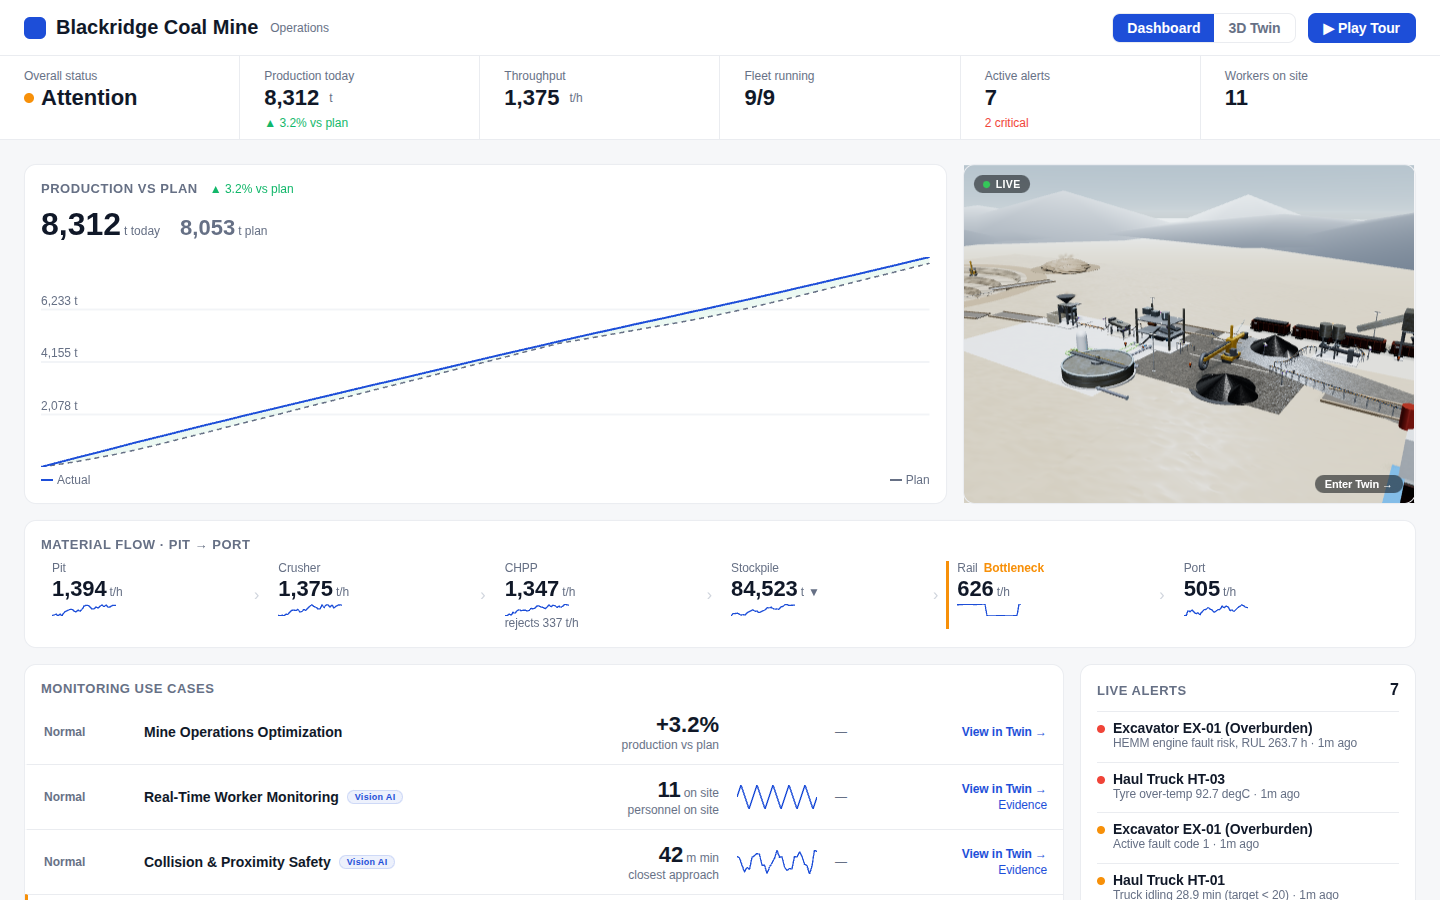
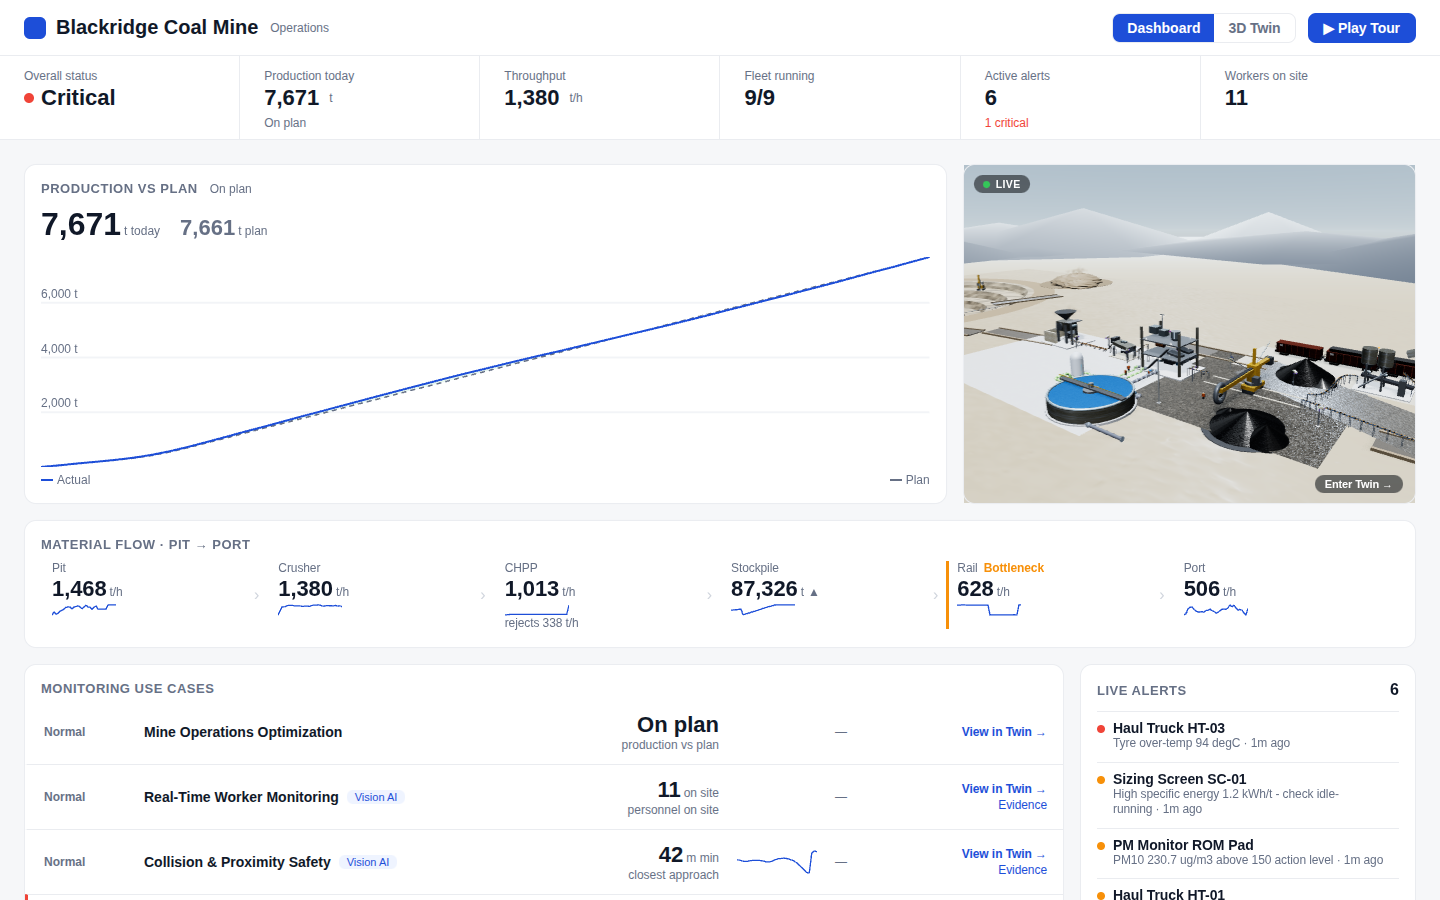
Coherence fix pass: one status truth, real S-curve, mass balance, alert attribution
FIX 1  overallStatus is ONE alerts-only selector (any critical→Critical, any
       warn→Attention, else Normal); the tile-threshold derivation that let
       '3 critical' render as Attention is deleted; dev warn if ever out of sync
FIX 2  Hero series from a 24h shift-profile model (30,000 t/day; changeover
       dips 05:30-06:30/17:30-18:30 @35%, blast 14:00-14:30 @0, 30-min ramps,
       normalized integral). Actual = same profile x smoothed deterministic
       walk clamped 0.90-1.08, pinned to the today-counter so chart delta ==
       glance delta by construction (dev assert <0.05). Gap band filled 10%
       good/bad, split at crossovers; nice-number gridline ticks (2,000/4,000/
       6,000), never computed thirds
FIX 3  CHPP node shows PRODUCT t/h with 'feed X · rejects Y' sub-line — the
       chain reads monotonically Pit>Crusher>CHPP-product; stockyard balance
       corrected (rail draws from the yard, the ship loads at the port — no
       ship drain); stockpile trend DERIVED = product - rail (assert), arrow
       neutral ink, sparkline slopes up from the same delta
FIX 4  ALERT_ROW_MAP: every alert tag → exactly one ledger row (CV camera →
       Asset Performance, TPMS → Fleet, CHP SEC → Energy, etc.); row status/
       count/recency all from the mapping; console.warn once for unmapped tags.
       Verified live: SEC→Energy Attention, CV red→Asset Critical, TPMS→Fleet
FIX 5  Safety counters guarded so an active event can never interpolate a
[…]

diff --git a/app/src/lib/mineModel.js b/app/src/lib/mineModel.js
@@ -45,8 +45,44 @@ export function drift(nominal, seed, tH, amp = 0.06) {
 }
 
 // live rates at elapsed hours tH, mass-balanced (downstream ≤ upstream).
+// ── 24 h plan profile: 30,000 t/day; shift changeovers 05:30–06:30 and
+// 17:30–18:30 at 35% of base; blast window 14:00–14:30 at 0; 30-min ramps
+// back to base. planCumulative() is the normalized integral (t from midnight).
+export const DAY_PLAN_T = 30000
+export function dayRate(h) {
+  const ramp = (a, b, from, to) => from + ((h - a) / (b - a)) * (to - from)
+  if (h >= 5.5 && h < 6.5) return 0.35
+  if (h >= 6.5 && h < 7) return ramp(6.5, 7, 0.35, 1)
+  if (h >= 14 && h < 14.5) return 0
+  if (h >= 14.5 && h < 15) return ramp(14.5, 15, 0, 1)
+  if (h >= 17.5 && h < 18.5) return 0.35
+  if (h >= 18.5 && h < 19) return ramp(18.5, 19, 0.35, 1)
+  return 1
+}
+function dayIntegralRaw(h) {
+  const step = 0.05
+  let a = 0
+  for (let t = 0; t < h; t += step) a += dayRate(t + step / 2) * Math.min(step, h - t)
+  return a
+}
+let _dayTotal = null
+export function planCumulative(hClock) {
+  if (_dayTotal == null) _dayTotal = dayIntegralRaw(24)
+  return DAY_PLAN_T * dayIntegralRaw(Math.min(24, Math.max(0, hClock))) / _dayTotal
+}
+// deterministic smoothed-walk noise for the ACTUAL series, clamped 0.90–1.08 —
+// the same multiplier drives live rates, today-counters and the hero chart,
+// so the chart delta and the glance delta are one number by construction.
+function hashN(i, seed) { const x = Math.sin(i * 127.1 + seed * 311.7) * 43758.5453; return x - Math.floor(x) }
+function vnoise(t, seed) { const i = Math.floor(t), f = t - i, u = f * f * (3 - 2 * f); return hashN(i, seed) * (1 - u) + hashN(i + 1, seed) * u }
+export function actualNoise(tH) {
+  const n = 0.6 * vnoise(tH * 0.9, 7) + 0.4 * vnoise(tH * 3.1, 13)
+  return Math.max(0.90, Math.min(1.08, 0.90 + n * 0.18))
+}
+
 export function ratesAt(tH, objects) {
-  const rom = Math.max(0, drift(NOM.romExPit, 1, tH))
+  const profile = dayRate(CFG.shiftStartH + tH) * actualNoise(tH)
+  const rom = Math.max(0, drift(NOM.romExPit, 1, tH) * profile)
   const crusher = Math.min(NOM.crusherOut, rom * 0.986 + drift(0, 2, tH, 8))
   const chppFeed = Math.min(NOM.chppFeed, crusher * 0.98)
   const product = chppFeed * NOM.yield
@@ -70,8 +106,8 @@ export function initMineModel(objects) {
     const r = ratesAt(tH, objects)
     today.rom += r.rom * stepH; today.product += r.product * stepH
     today.rail += r.rail * stepH; today.ship += r.ship * stepH; today.rejects += r.rejects * stepH
-    stock.A += (r.product * 0.55 - r.rail * 0.5 - r.ship * 0.5) * stepH
-    stock.B += (r.product * 0.45 - r.rail * 0.5 - r.ship * 0.5) * stepH
+    stock.A += (r.product * 0.55 - r.rail * 0.55) * stepH
+    stock.B += (r.product * 0.45 - r.rail * 0.45) * stepH
     stock.A = Math.min(CFG.stockMax, Math.max(CFG.stockMin, stock.A))
     stock.B = Math.min(CFG.stockMax, Math.max(CFG.stockMin, stock.B))
   }
@@ -86,8 +122,8 @@ export function tickMineModel(objects) {
   S.today.rom += r.rom * dtH; S.today.product += r.product * dtH
   S.today.rail += r.rail * dtH; S.today.ship += r.ship * dtH; S.today.rejects += r.rejects * dtH
   // stockpile integrates (in from product, out to rail + ship reclaim)
-  S.stock.A = clamp(S.stock.A + (r.product * 0.55 - r.rail * 0.5 - r.ship * 0.5) * dtH)
-  S.stock.B = clamp(S.stock.B + (r.product * 0.45 - r.rail * 0.5 - r.ship * 0.5) * dtH)
+  S.stock.A = clamp(S.stock.A + (r.product * 0.55 - r.rail * 0.55) * dtH)
+  S.stock.B = clamp(S.stock.B + (r.product * 0.45 - r.rail * 0.45) * dtH)
   const total = S.stock.A + S.stock.B
   S.trend = total - S.prevStockTotal; S.prevStockTotal = total
   recordDashSeries(objects, r)
@@ -100,9 +136,9 @@ function recordDashSeries(objects, r) {
   recordParam('dash', 'flow_rail', r.rail); recordParam('dash', 'flow_port', r.ship)
   recordParam('dash', 'stockFlow', S.stock.A + S.stock.B)
   recordParam('dash', 'prod', S.today.rom)
-  recordParam('dash', 'workers', Number(objects['safety-1']?.parameters?.workersOnSite) || 0)
+  recordParam('dash', 'workers', Number(objects['safety-1']?.parameters?.workersOnSite) || 0, true)
   recordParam('dash', 'prox', Number(objects['safety-1']?.parameters?.minWorkerVehicleDistance) || 0)
-  recordParam('dash', 'fleetFuel', 78 + (r.rom / NOM.romExPit) * 14)
+  recordParam('dash', 'fleetFuel', fleetRunning(objects).run, true)
   recordParam('dash', 'rul', lowestRul(objects).h ?? 0)
   recordParam('dash', 'vib', worstVibration(objects).v)
   recordParam('dash', 'pm10', Number(objects['pm-1']?.parameters?.pm10) || 0)
@@ -125,7 +161,7 @@ export function getModel(objects) {
   const utilPct = Math.round(Math.min(96, Math.max(78, drift(CFG.utilNom, 3, tH, 0.06))))
   const fuelLh = Math.round(runTrucks * drift(CFG.truckFuelLh, 4, tH, 0.05))
   const elapsedFrac = tH / CFG.shiftHours
-  const planToNow = CFG.dailyPlan * planFrac(tH)
+  const planToNow = planCumulative(CFG.shiftStartH + tH) - planCumulative(CFG.shiftStartH)
   const productionToday = S.today.rom
   const deltaPct = planToNow > 0 ? ((productionToday - planToNow) / planToNow) * 100 : 0
   const stockTotal = S.stock.A + S.stock.B
@@ -139,8 +175,8 @@ export function getModel(objects) {
   const stages = [
     { id: 'pit',   zone: 'pit',   label: 'Pit',       rate: r.rom,      nominal: NOM.romExPit },
     { id: 'crush', zone: 'proc',  label: 'Crusher',   rate: r.crusher,  nominal: NOM.crusherOut },
-    { id: 'chpp',  zone: 'proc',  label: 'CHPP',      rate: r.chppFeed, nominal: NOM.chppFeed, reject: r.rejects },
-    { id: 'stock', zone: 'yard',  label: 'Stockpile', rate: r.product,  nominal: NOM.product, level: stockTotal, trend: S.trend },
+    { id: 'chpp',  zone: 'proc',  label: 'CHPP',      rate: r.product,  nominal: NOM.product, feed: r.chppFeed, reject: r.rejects },
+    { id: 'stock', zone: 'yard',  label: 'Stockpile', rate: r.product,  nominal: NOM.product, level: stockTotal, trend: r.product - r.rail },
     { id: 'rail',  zone: 'rail',  label: 'Rail',      rate: r.rail,     nominal: NOM.railOut },
     { id: 'port',  zone: 'port',  label: 'Port',      rate: r.ship,     nominal: NOM.shipLoad },
   ]
@@ -152,6 +188,7 @@ export function getModel(objects) {
     if (ratio < worstRatio) { worstRatio = ratio; bottleneck = st.id }
   }
 
+  if (import.meta.env.DEV) console.assert(Math.sign(stages[3].trend) === Math.sign(r.product - r.rail), '[mineModel] stock arrow decoupled')
   return {
     tH, elapsedFrac, rates: r, stages, bottleneck,
     plan: { daily: CFG.dailyPlan, toNow: planToNow, deltaPct },
@@ -169,70 +206,62 @@ function dieselTodayL(objects) {
   return run * CFG.truckFuelLh * (S ? elapsedH() : CFG.shiftStartH)
 }
 
-// planned rate multiplier across the shift: startup ramp, mid-shift crib dip,
-// recovery — gives the plan line its S-curve shape. planFrac() is the
-// normalized cumulative integral so plan-to-now and the hero share one truth.
-function planProfile(h) {
-  if (h < 0.75) return 0.55 + (h / 0.75) * 0.45
-  if (h < 3.5) return 1.04
-  if (h < 4.25) return 0.72
-  if (h < 5) return 0.72 + ((h - 4.25) / 0.75) * 0.31
-  return 1.03
-}
-function planIntegral(h) {
-  const step = 0.05
-  let a = 0
-  for (let t = 0; t < h; t += step) a += planProfile(t + step / 2) * Math.min(step, h - t)
-  return a
-}
-let _planTotal = null
-export function planFrac(h) {
-  if (_planTotal == null) _planTotal = planIntegral(CFG.shiftHours)
-  return Math.max(0, Math.min(1, planIntegral(Math.min(h, CFG.shiftHours)) / _planTotal))
-}
-
-// cumulative production S-curve (actual drift-integrated vs S-curve plan) for the hero
+// cumulative production S-curve for the hero: plan = 24h-profile integral over
+// the shift window; actual = the live rate model integrated, pinned to the
+// today-counter so the chart delta EQUALS the glance delta.
 export function productionCurve(objects, points = 48) {
   if (!S) initMineModel(objects)
   const tH = elapsedH()
   const actual = [], plan = []
   const stepH = tH / points
+  const plan0 = planCumulative(CFG.shiftStartH)
   let cum = 0
   for (let i = 0; i <= points; i++) {
     const a = i * stepH
-    // integrate rom over [a-step, a]
     if (i > 0) { const mid = a - stepH / 2; cum += ratesAt(mid, objects).rom * stepH }
     actual.push(cum)
-    plan.push(CFG.dailyPlan * planFrac(a))
+    plan.push(planCumulative(CFG.shiftStartH + a) - plan0)
   }
-  return { actual, plan, target: CFG.dailyPlan * planFrac(tH) }
+  const k = actual[points] > 0 ? S.today.rom / actual[points] : 1
+  for (let i = 0; i <= points; i++) actual[i] *= k
+  if (import.meta.env.DEV && plan[points] > 0) {
+    const chartDelta = ((actual[points] - plan[points]) / plan[points]) * 100
+    const modelDelta = ((S.today.rom - plan[points]) / plan[points]) * 100
+    if (Math.abs(chartDelta - modelDelta) >= 0.05) console.warn('[mineModel] hero delta mismatch', chartDelta, modelDelta)
+  }
+  return { actual, plan, target: plan[points] }
 }
 
 function backfillDash(objects) {
   if (getParamHistory('dash', 'flow_pit').length > 8) return
   const tH = elapsedH()
-  const wob = (i, k, m) => Math.sin(i * 0.37 + k) * m + Math.sin(i * 1.31 + k * 2.7) * m * 0.35
+  const mkWalk = (seed) => { let st = seed >>> 0, v = 0; const rnd = () => { st = (st * 1664525 + 1013904223) >>> 0; return st / 4294967296 }; return () => { v = Math.max(-1, Math.min(1, v + (rnd() - 0.5) * 0.55)); return v } }
+  const walks = Array.from({ length: 14 }, (_, k) => mkWalk(97 + k * 31))
   const anchor = (id, key, dflt) => { const v = Number(objects[id]?.parameters?.[key]); return Number.isFinite(v) ? v : dflt }
   const rul0 = lowestRul(objects).h
+  let wInt = 11, fInt = 9, prox = anchor('safety-1', 'minWorkerVehicleDistance', 34)
   for (let i = 0; i < 63; i++) {
     const f = i / 62
     const h = Math.max(0.05, tH - (1 - f) * 1.0)
     const r = ratesAt(h, objects)
-    recordParam('dash', 'flow_pit', r.rom + wob(i, 1, 6))
-    recordParam('dash', 'flow_crush', r.crusher + wob(i, 2, 5))
-    recordParam('dash', 'flow_chpp', r.chppFeed + wob(i, 3, 5))
-    recordParam('dash', 'flow_rail', r.rail + wob(i, 4, 8))
-    recordParam('dash', 'flow_port', r.ship + wob(i, 5, 9))
-    const lvl = (S.stock.A + S.stock.B) - (1 - f) * 260 + wob(i, 6, 40)
+    recordParam('dash', 'flow_pit', r.rom + walks[0]() * 6)
+    recordParam('dash', 'flow_crush', r.crusher + walks[1]() * 5)
+    recordParam('dash', 'flow_chpp', r.product + walks[2]() * 4)
+    recordParam('dash', 'flow_rail', r.rail + walks[3]() * 8)
+    recordParam('dash', 'flow_port', r.ship + walks[4]() * 9)
+    const lvl = (S.stock.A + S.stock.B) - (1 - f) * (r.product - r.rail) + walks[5]() * 30
     recordParam('dash', 'flow_stock', lvl); recordParam('dash', 'stockFlow', lvl); recordParam('dash', 'stock', lvl)
-    recordParam('dash', 'prod', Math.max(0, S.today.rom - (1 - f) * r.rom) + wob(i, 7, 12))
-    recordParam('dash', 'workers', 11 + Math.round(Math.sin(i * 0.5) * 1.2))
-    recordParam('dash', 'prox', anchor('safety-1', 'minWorkerVehicleDistance', 34) + wob(i, 8, 6))
-    recordParam('dash', 'fleetFuel', 78 + (r.rom / NOM.romExPit) * 14 + wob(i, 9, 1.5))
-    if (rul0 != null) recordParam('dash', 'rul', rul0 + (1 - f) * 1.4 + wob(i, 10, 0.4))
-    recordParam('dash', 'vib', anchor('crusher-1', 'vibration', 7.4) + wob(i, 11, 0.8))
-    recordParam('dash', 'pm10', anchor('pm-1', 'pm10', 205) + wob(i, 12, 16))
-    recordParam('dash', 'sec', anchor('screen-1', 'kwhPerTonne', 1.12) + wob(i, 13, 0.05))
+    recordParam('dash', 'prod', Math.max(0, S.today.rom - (1 - f) * r.rom) + walks[6]() * 10)
+    if (i % 5 === 0) { wInt = Math.max(9, Math.min(13, wInt + Math.round((walks[7]() * 1.6)))) }
+    recordParam('dash', 'workers', wInt, true)
+    if (i % 9 === 0) { fInt = Math.max(8, Math.min(9, fInt + Math.round(walks[8]() * 1.2))) }
+    recordParam('dash', 'fleetFuel', fInt, true)
+    prox = Math.max(20, Math.min(48, prox + walks[9]() * 3))
+    recordParam('dash', 'prox', prox)
+    if (rul0 != null) recordParam('dash', 'rul', rul0 + (1 - f) * 1.4 + walks[10]() * 0.4)
+    recordParam('dash', 'vib', anchor('crusher-1', 'vibration', 7.4) + walks[11]() * 0.8)
+    recordParam('dash', 'pm10', anchor('pm-1', 'pm10', 205) + walks[12]() * 16)
+    recordParam('dash', 'sec', anchor('screen-1', 'kwhPerTonne', 1.12) + walks[13]() * 0.05)
   }
 }
 

diff --git a/app/src/components/dashboard/OpsDashboard.jsx b/app/src/components/dashboard/OpsDashboard.jsx
@@ -4,7 +4,7 @@ import { useState, useEffect } from 'react'
 import { useSceneStore } from '../../store/sceneStore'
 import { useDashboard } from '../../lib/dashboardStore'
 import { productionCurve } from '../../lib/mineModel'
-import { TILES, tileStatus, overallStatus, attentionCount, domainAlertCount } from '../../lib/dashboardConfig'
+import { TILES, overallStatus, rowAlertsFor } from '../../lib/dashboardConfig'
 import { getParamHistory } from '../../lib/paramHistory'
 import { ChartCard, SCurve, MiniSpark } from './Charts'
 import { useFeedStore } from '../CameraFeed'
@@ -45,8 +45,9 @@ function GlanceBlock({ label, value, unit, sub, dot, last }) {
   )
 }
 function GlanceRow({ m, objects, alerts }) {
-  const overall = overallStatus(m, objects, alerts)
+  const overall = overallStatus(alerts)
   const nCrit = alerts.filter(a => a.severity === 'critical').length
+  if (import.meta.env.DEV && nCrit > 0 && overall !== 'red') console.warn('[dashboard] overallStatus out of sync with critical alerts')
   return (
     <div style={{ height: 84, flexShrink: 0, background: T.surface, borderBottom: `1px solid ${T.line}`, display: 'flex', alignItems: 'stretch' }}>
       <GlanceBlock label="Overall status" value={STATUS_WORD[overall]} dot={STATUS[overall]} />
@@ -76,7 +77,7 @@ function FlowStrip({ m, openZone }) {
                 <span style={{ ...ty.label, display: 'flex', alignItems: 'center', gap: 6, whiteSpace: 'nowrap' }}>{st.label}{bn && <span style={{ fontSize: 12, fontWeight: 600, color: T.warn }}>Bottleneck</span>}</span>
                 <span style={{ ...ty.kpiM, whiteSpace: 'nowrap' }}>{st.id === 'stock' ? Math.round(st.level).toLocaleString() : Math.round(st.rate).toLocaleString()}<Unit>{st.id === 'stock' ? 't' : 't/h'}</Unit>{st.id === 'stock' && rising != null && <span style={{ ...ty.label, marginLeft: 4 }}>{rising ? '▲' : '▼'}</span>}</span>
                 <MiniSpark data={spark} w={64} h={12} />
-                <span style={{ ...ty.label, whiteSpace: 'nowrap' }}>{st.reject != null ? `rejects ${Math.round(st.reject)} t/h` : ''}</span>
+                <span style={{ ...ty.label, whiteSpace: 'nowrap' }}>{st.feed != null ? `feed ${Math.round(st.feed)} · rejects ${Math.round(st.reject)} t/h` : ''}</span>
               </button>
               {i < m.stages.length - 1 && <span aria-hidden style={{ flexShrink: 0, padding: '0 8px', color: '#D0D5DD', fontSize: 16, lineHeight: 1 }}>›</span>}
             </div>
@@ -90,9 +91,9 @@ function FlowStrip({ m, openZone }) {
 // ── use-case LEDGER (table) — no fixed heights, no absolute, no clipping ──
 const LEDGER = {
   ops:     { full: 'Mine Operations Optimization', ctx: 'production vs plan' },
-  workers: { full: 'Real-Time Worker Monitoring',   ctx: 'personnel on site' },
+  workers: { full: 'Real-Time Worker Monitoring',   ctx: 'personnel on site', step: true },
   prox:    { full: 'Collision & Proximity Safety',  ctx: 'closest approach' },
-  fleet:   { full: 'Fleet & Equipment Management',  ctx: 'units running' },
+  fleet:   { full: 'Fleet & Equipment Management',  ctx: 'units running', step: true },
   pdm:     { full: 'Predictive Maintenance',        ctx: 'lowest asset RUL' },
   asset:   { full: 'Asset Performance Management',  ctx: 'worst vibration' },
   prod:    { full: 'Production & Productivity',      ctx: (m) => `${m.plan.deltaPct >= 0 ? '+' : ''}${m.plan.deltaPct.toFixed(1)}% vs plan` },
@@ -120,7 +121,7 @@ function Drawer({ tile, m, objects, spark }) {
 }
 
 function LedgerRow({ tile, m, objects, alerts, expanded, onToggle, onView, first }) {
-  const rowAlerts = alerts.filter(a => a.useCase === tile.tag)
+  const rowAlerts = rowAlertsFor(tile.id, alerts)
   const st = rowAlerts.some(a => a.severity === 'critical') ? 'red' : rowAlerts.length ? 'amber' : 'green'
   const val = tile.value(m, objects)
   const meta = LEDGER[tile.id] || { full: tile.title, ctx: '' }
@@ -142,7 +143,7 @@ function LedgerRow({ tile, m, objects, alerts, expanded, onToggle, onView, first
           <span style={ty.kpiM}>{val}{tile.unit ? <Unit>{tile.unit}</Unit> : null}</span>
           <span style={{ display: 'block', ...ty.label }}>{ctx}</span>
         </span>
-        <span style={{ width: 84, flexShrink: 0, display: 'flex', justifyContent: 'center' }}><MiniSpark data={spark} w={80} h={24} /></span>
+        <span style={{ width: 84, flexShrink: 0, display: 'flex', justifyContent: 'center' }}><MiniSpark data={spark} w={80} h={24} step={meta.step} /></span>
         <span style={{ width: 96, flexShrink: 0, ...ty.label }}>{n > 0 ? `${n} alert${n > 1 ? 's' : ''}${last ? ` · ${rel(last)}` : ''}` : '—'}</span>
         <span style={{ width: 100, flexShrink: 0, display: 'flex', flexDirection: 'column', alignItems: 'flex-end', gap: 2 }}>
           <button onClick={(e) => { e.stopPropagation(); onView() }} style={{ ...ty.label, color: T.accent, fontWeight: 600, background: 'none', border: 'none', cursor: 'pointer', padding: 0 }}>View in Twin →</button>

diff --git a/app/src/components/dashboard/Charts.jsx b/app/src/components/dashboard/Charts.jsx
@@ -69,18 +69,22 @@ export function SCurve({ actual = [], plan = [] }) {
       s0 = i
     }
   }
-  const gl = [0.25, 0.5, 0.75]
+  const rawStep = hi / 4
+  const pow = 10 ** Math.floor(Math.log10(rawStep))
+  const stepV = [1, 2, 2.5, 5, 10].map(c => c * pow).find(c => hi / c <= 4) || 10 * pow
+  const ticks = []
+  for (let v = stepV; v < hi * 0.98; v += stepV) ticks.push(v)
   return (
     <>
       <div style={{ flex: 1, minHeight: 0, position: 'relative' }}>
         <svg width="100%" height="100%" viewBox={`0 0 ${W} ${H}`} preserveAspectRatio="none" style={{ display: 'block' }}>
-          {gl.map((f, i) => <line key={i} x1="0" y1={H * f} x2={W} y2={H * f} stroke={T.grid} strokeWidth="1" />)}
-          {bands.map((b, i) => <polygon key={i} points={b.d} fill={b.good ? 'rgba(18,183,106,0.08)' : 'rgba(240,68,56,0.08)'} stroke="none" />)}
+          {ticks.map((v, i) => <line key={i} x1="0" y1={y(v)} x2={W} y2={y(v)} stroke={T.grid} strokeWidth="1" />)}
+          {bands.map((b, i) => <polygon key={i} points={b.d} fill={b.good ? 'rgba(18,183,106,0.10)' : 'rgba(240,68,56,0.10)'} stroke="none" />)}
           <polyline points={P(pPts)} fill="none" stroke={T.ink2} strokeWidth="1.5" strokeDasharray="5 4" vectorEffect="non-scaling-stroke" />
           <polyline points={P(aPts)} fill="none" stroke={T.accent} strokeWidth="2" strokeLinejoin="round" vectorEffect="non-scaling-stroke" />
         </svg>
-        {gl.map((f, i) => (
-          <span key={i} style={{ position: 'absolute', left: 0, top: `${f * 100}%`, transform: 'translateY(-115%)', ...ty.label }}>{fmt(hi * (1 - f))} t</span>
+        {ticks.map((v, i) => (
+          <span key={i} style={{ position: 'absolute', left: 0, top: `${(y(v) / H) * 100}%`, transform: 'translateY(-115%)', ...ty.label }}>{fmt(v)} t</span>
         ))}
       </div>
       <Axis labels={['start', 'shift', 'now']} legend />
@@ -109,12 +113,16 @@ export function AlertTimeline({ events = [], cap = 720 }) {
 }
 
 // tiny inline sparkline (flow-strip nodes, tiles) — accent, no axis
-export function MiniSpark({ data = [], w = 40, h = 16 }) {
+export function MiniSpark({ data = [], w = 40, h = 16, step = false }) {
   if (!data || data.length < 2) return <span style={{ display: 'inline-block', width: w, height: h }} />
   const lo = Math.min(...data), hi = Math.max(...data), span = hi - lo || 1
   const stride = Math.max(1, Math.ceil(data.length / 48))
   const src = data.filter((_, i) => i % stride === 0 || i === data.length - 1)
-  const pts = src.map((v, i) => `${(i / (src.length - 1)) * w},${(h - ((v - lo) / span) * h).toFixed(1)}`).join(' ')
+  const X = (i) => (i / (src.length - 1)) * w
+  const Y = (v) => (h - 1 - ((v - lo) / span) * (h - 2))
+  const pts = step
+    ? src.map((v, i) => (i === 0 ? `${X(0)},${Y(v).toFixed(1)}` : `${X(i).toFixed(1)},${Y(src[i - 1]).toFixed(1)} ${X(i).toFixed(1)},${Y(v).toFixed(1)}`)).join(' ')
+    : src.map((v, i) => `${X(i).toFixed(1)},${Y(v).toFixed(1)}`).join(' ')
   return <svg width={w} height={h} style={{ display: 'block' }}><polyline points={pts} fill="none" stroke={T.accent} strokeWidth="1.3" strokeLinejoin="round" /></svg>
 }
 

diff --git a/app/src/lib/dashboardConfig.js b/app/src/lib/dashboardConfig.js
@@ -113,5 +113,32 @@ const cap = (s) => ({ pit: 'Pit', crush: 'Crusher', chpp: 'CHPP', stock: 'Stockp
 const sgn = (v) => (v >= 0 ? '+' : '') + (Math.round(v * 10) / 10)
 
 export function tileStatus(tile, m, objects, alerts) { return tile.status(m, objects, alerts) }
-export function overallStatus(m, objects, alerts) { return worst(TILES.map(t => tileStatus(t, m, objects, alerts))) }
-export function attentionCount(m, objects, alerts) { return TILES.filter(t => tileStatus(t, m, objects, alerts) !== 'green').length }
+// ONE overall-status selector: derived from the live alerts array ONLY.
+// any critical → red · any warn → amber · none → green. Every consumer
+// (header dot, glance) reads this — no parallel derivations.
+export function overallStatus(alerts) {
+  return alerts.some(a => a.severity === 'critical') ? 'red' : alerts.length ? 'amber' : 'green'
+}
+
+// FIX 4 — every alert tag maps to exactly ONE ledger row (no orphans).
+export const ALERT_ROW_MAP = {
+  'HEMM PdM': 'pdm',
+  'Vibration CBM': 'asset', 'Conveyor Vision': 'asset',
+  'Haulage': 'fleet', 'TPMS': 'fleet',
+  'CHP SEC': 'energy',
+  'Dust & Env': 'env',
+  'Worker Safety': 'workers',
+  'Proximity': 'prox',
+  'Logistics': 'supply', 'Rail': 'supply', 'Shiploading': 'supply',
+  'Optimization': 'ops', 'Production': 'prod',
+}
+const _warned = new Set()
+export function rowAlertsFor(tileId, alerts) {
+  const out = []
+  for (const a of alerts) {
+    const row = ALERT_ROW_MAP[a.useCase]
+    if (row === undefined && !_warned.has(a.useCase)) { _warned.add(a.useCase); console.warn(`[dashboard] active alert tag "${a.useCase}" has no ledger-row mapping`) }
+    if (row === tileId) out.push(a)
+  }
+  return out
+}

diff --git a/app/src/lib/paramHistory.js b/app/src/lib/paramHistory.js
@@ -7,12 +7,12 @@ const CAP = 64                        // ~last minute at the 1 Hz sim tick
 
 const BUF = new Map()                 // `${objId}:${param}` → number[]
 
-export function recordParam(objId, key, v) {
+export function recordParam(objId, key, v, allowRepeat = false) {
   if (!Number.isFinite(v)) return
   const k = objId + ':' + key
   let a = BUF.get(k)
   if (!a) { a = []; BUF.set(k, a) }
-  if (a.length && a[a.length - 1] === v) return   // sim not ticked yet — skip dupes
+  if (!allowRepeat && a.length && a[a.length - 1] === v) return   // skip dupes (sim not ticked)
   a.push(v)
   if (a.length > CAP) a.shift()
 }

diff --git a/app/src/lib/oee.js b/app/src/lib/oee.js
@@ -214,6 +214,11 @@ function stepSafety(o, rec) {
   p.proximityEvent = q.pxTimer > 0 ? 1 : 0
   p.unauthorizedEvent = q.uaTimer > 0 ? 1 : 0
   p.geofenceEvent = q.gfTimer > 0 ? 1 : 0
+  // counters increment WITH their event; guard so an active event can never
+  // interpolate a pre-increment zero into its alert message
+  if (p.proximityEvent && q.px < 1) q.px = 1
+  if (p.unauthorizedEvent && q.ua < 1) q.ua = 1
+  if (p.geofenceEvent && q.gf < 1) q.gf = 1
   p.proximityAlertsToday = q.px
   p.unauthorizedEntriesToday = q.ua
   p.geofenceViolationsToday = q.gf

diff --git a/app/src/components/dashboard/VisionEvidence.jsx b/app/src/components/dashboard/VisionEvidence.jsx
@@ -13,7 +13,7 @@ const mono = "'SF Mono', ui-monospace, Menlo, monospace"
 
 // small discoverability chip for tiles with evidence
 export function VisionChip() {
-  return <span style={{ fontSize: 9, fontWeight: 700, letterSpacing: 0.3, color: '#1D4ED8', background: '#1D4ED814', border: '1px solid #1D4ED826', borderRadius: R.pill, padding: '1px 7px' }}>Vision AI</span>
+  return <span style={{ fontSize: 11, fontWeight: 500, color: '#1D4ED8', background: '#EFF4FF', borderRadius: 6, padding: '1px 8px' }}>Vision AI</span>
 }
 
 // compact 16:9 media card
